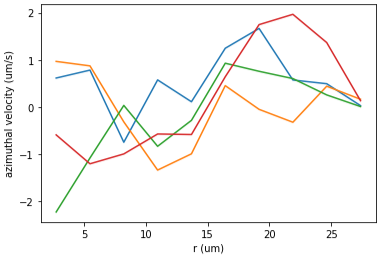
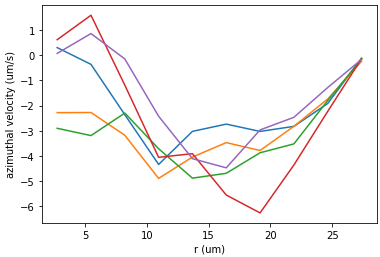
Finish velocity profile measurement
Add formatting doc in appendix

diff --git a/Code/Analysis_of_collective_motions_in_droplets.py b/Code/Analysis_of_collective_motions_in_droplets.py
@@ -99,6 +99,7 @@ def order_parameter_wioland2013(pivData, center):
     Return:
     OP -- float, max to 1
     """
+    pivData = pivData.dropna()
     point = (pivData.x, pivData.y)
     tu = tangent_unit(point, center)
     # \Sigma vt
@@ -110,9 +111,9 @@ def order_parameter_wioland2013(pivData, center):
 
 # %% codecell
 from skimage import io
-pivData = pd.read_csv(os.path.join("test_files", "00000-00001.csv"))
+pivData = pd.read_csv(os.path.join("test_files", "00000-00001.csv")).dropna()
 img = io.imread(os.path.join("test_files", "22.tif"))
-center = (259, 227)
+center = (259, 228)
 order_parameter_wioland2013(pivData, center)
 
 # %% codecell
@@ -121,7 +122,7 @@ tu = tangent_unit(point, center)
 plt.figure(dpi=150)
 plt.imshow(img, cmap='gray')
 plt.quiver(pivData.x, pivData.y, pivData.u, pivData.v, color='yellow', width=0.005)
-plt.quiver(pivData.x, pivData.y, -tu[0], tu[1], color='red', width=0.0025)
+plt.quiver(pivData.x, pivData.y, tu[0], tu[1], color='red', width=0.0025)
 # plt.axis('off')
 
 # %% codecell
@@ -568,10 +569,13 @@ tu = tangent_unit(point, center)
 plt.figure(dpi=150)
 plt.quiver(point[0], point[1], tu[0], tu[1])
 # %% codecell
-pivData = pd.read_csv(os.path.join("test_files", "00000-00001.csv"))
-center = (259, 228)
-vp = azimuthal_velocity_profile_radial(pivData, center)
-plt.plot(vp.r, vp.v)
+for i in range(0, 10, 2):
+    pivData = pd.read_csv(os.path.join("test_files", "w20_o10", "{0:05d}-{1:05d}.csv".format(i, i+1)))
+    center = (259, 228)
+    vp = azimuthal_velocity_profile_radial(pivData, center)
+    plt.plot(vp.r*0.16, vp.v*0.16)
+plt.xlabel("r (um)")
+plt.ylabel("azimuthal velocity (um/s)")
 # %% codecell
 folder = r"C:\Users\liuzy\Documents\12092021\piv_drop\22"
 center = (259, 228)
@@ -652,8 +656,6 @@ pivData = pd.read_csv(os.path.join("test_files", "00000-00001.csv")).dropna()
 center = (259, 228)
 order_parameter_hamby2018(pivData, center)
 # %% codecell
-os.getcwd()
-# %% codecell
 plt.figure(dpi=250)
 img = io.imread(os.path.join("test_files", "22.tif"))
 plt.imshow(img, cmap='gray')
@@ -662,7 +664,20 @@ plt.quiver(pivData.x, pivData.y, pivData.u, pivData.v, color="yellow", width=0.0
 plt.quiver(pivData.x, pivData.y, tu[0], tu[1], color="red", width=0.0015)
 # plt.axis("off")
 # %% codecell
-pivData
+folder = r"C:\Users\liuzy\Documents\12092021\piv_drop\22"
+l = readdata(folder, "csv")
+OP_list = []
+frame_list = []
+for num, i in l[:3000].iterrows():
+    pivData = pd.read_csv(i.Dir).dropna()
+    OP = order_parameter_hamby2018(pivData, center)
+    frame = int(i.Name.split("-")[0])
+    frame_list.append(frame)
+    OP_list.append(OP)
+plt.figure(dpi=100)
+plt.plot(np.array(frame_list)/50, savgol_filter(np.array(OP_list), 11, 3))
+plt.xlabel("time (s)")
+plt.ylabel("$\psi$")
 # %% codecell
 # investigate the coordinate system issue
 # a 3x3 velocity field going clockwise

diff --git a/Notes/Analysis_of_collective_motions_in_droplets.md b/Notes/Analysis_of_collective_motions_in_droplets.md
@@ -1,6 +1,17 @@
 # Analysis of Collective Motions in Droplets
 
-In this note, I summarize the analysis on the collective motions of bacteria in droplets. Most analysis will be performed on the PIV data. More ambitiously, I can try to compare PIV analysis with the optical flow methods in Hamby2018.
+In this note, I summarize the analysis on the collective motions of bacteria in droplets. Most analysis will be performed on the PIV data. The data analysis essentially reduces the number of dimensions of the original data, i.e. the velocity field over time. The data have 3 dimensions: $\theta$, $r$ and $t$. $\theta$ and $r$ are spatial, and $t$ is temporal. In our analysis, one or more dimensions are averaged out, leaving a smaller and more condense set of quantities, which makes our perception of data easier.
+
+The following table lists several such quantities that can be computed from PIV data, along with the number of dimensions reduced.
+| Quantities | Dim reduced     | Comment |
+| :------------- | :------------- | :---  |
+| velocity field    | 0      | original data |
+| velocity profile | 1 or 2  | reduce one spatial dimension |
+| correlation length  | 2 or 3  |  "or" because quantities can be calculated for a single frame, or average over a long time. |
+| correlation time   | 2 or 3  |   |
+| mean velocity  | 2 or 3  |   |
+| order parameter   | 2 or 3  |   |
+| ...   |   |   |
 
 ## I. Masked PIV
 
@@ -189,7 +200,7 @@ Below I plot together the azimuthal unit vector field (red) and the velocity fie
 
 ![compare velocity with azimuthal](../images/2022/01/compare-velocity-with-azimuthal.png)
 
-Using the formula given in definition, we get an order parameter for the PIV data in the example $\phi=0.23$. _Although I feel the alignment is very good already._ According to Wioland 2013, $\phi>0$ indicates the **existence of a coherent circulation**. <font color="red">Replace the illustration and analysis with a more updated PIV, where more area near the edge is included, and verify that the vector outside the droplet are not included as 0 when averaging.</font>
+Using the formula given in definition, we get an order parameter for the PIV data in the example $\phi=0.26$. _Although I feel the alignment is very good already._ According to Wioland 2013, $\phi>0$ indicates the **existence of a coherent circulation**. <font color="red">Note that the OP is calculated based on PIV with finer grid (20/10). For illustration purpose, however, I keep the grid above. The OP's from two PIV's turn out to be very close (0.23 vs. 0.26).</font>
 
 The whole video No.22 shows noisy order parameter oscillation between -0.4 and 0.4. The positivity is not pronounced compared to the noise.
 
@@ -378,6 +389,11 @@ We see collective motions in bulk and under confinement. Are they the same or di
 
 
 # Appendix A
-To do list
-- For high bacterial concentration: Compare flow time scale with inner droplet motion time scale
-- I can apply all the analysis in the GNF study here, e.g. density fluctuation, flow field vorticity, divergence, etc.
+- <font color="red">What to expect when expand the system dimension from 2D to 3D?</font>
+
+# Appendix B: title numbering and color scheme
+- In this document, these numbering are used in order (I, II, III...), (A, B, C...), (1, 2, 3...), (i, ii, iii...),(a, b, c...). 5 levels are sufficient for the moment. If more are needed in the future, I will need to google...
+- I currently use 3 colors in this document. But more may be added.
+  - Black: the default color
+  - <font color="red">Red: question, issue or something that need urgent modification</font>
+  - <font color="blue">Blue: to be elaborated, either in the same document or elsewhere</font>
